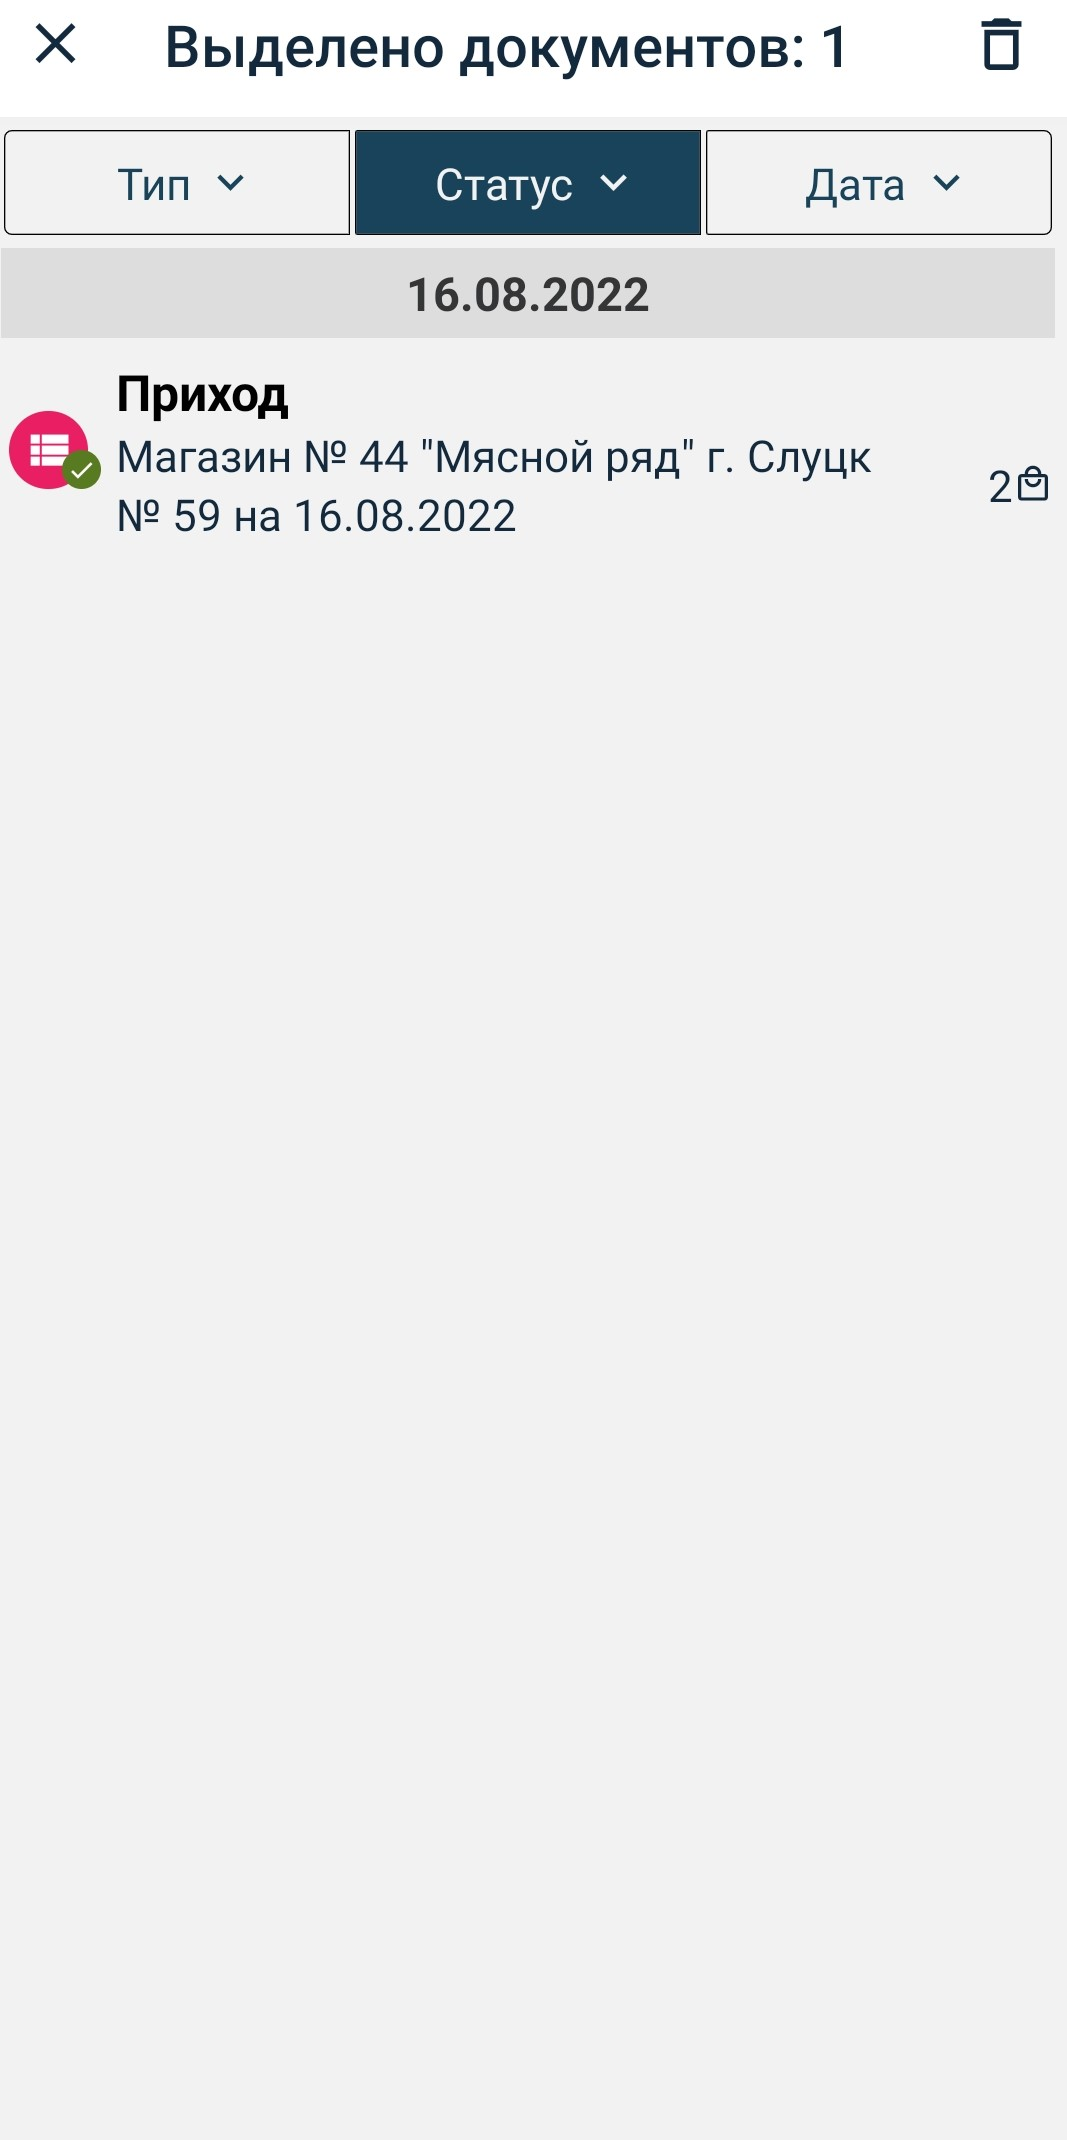
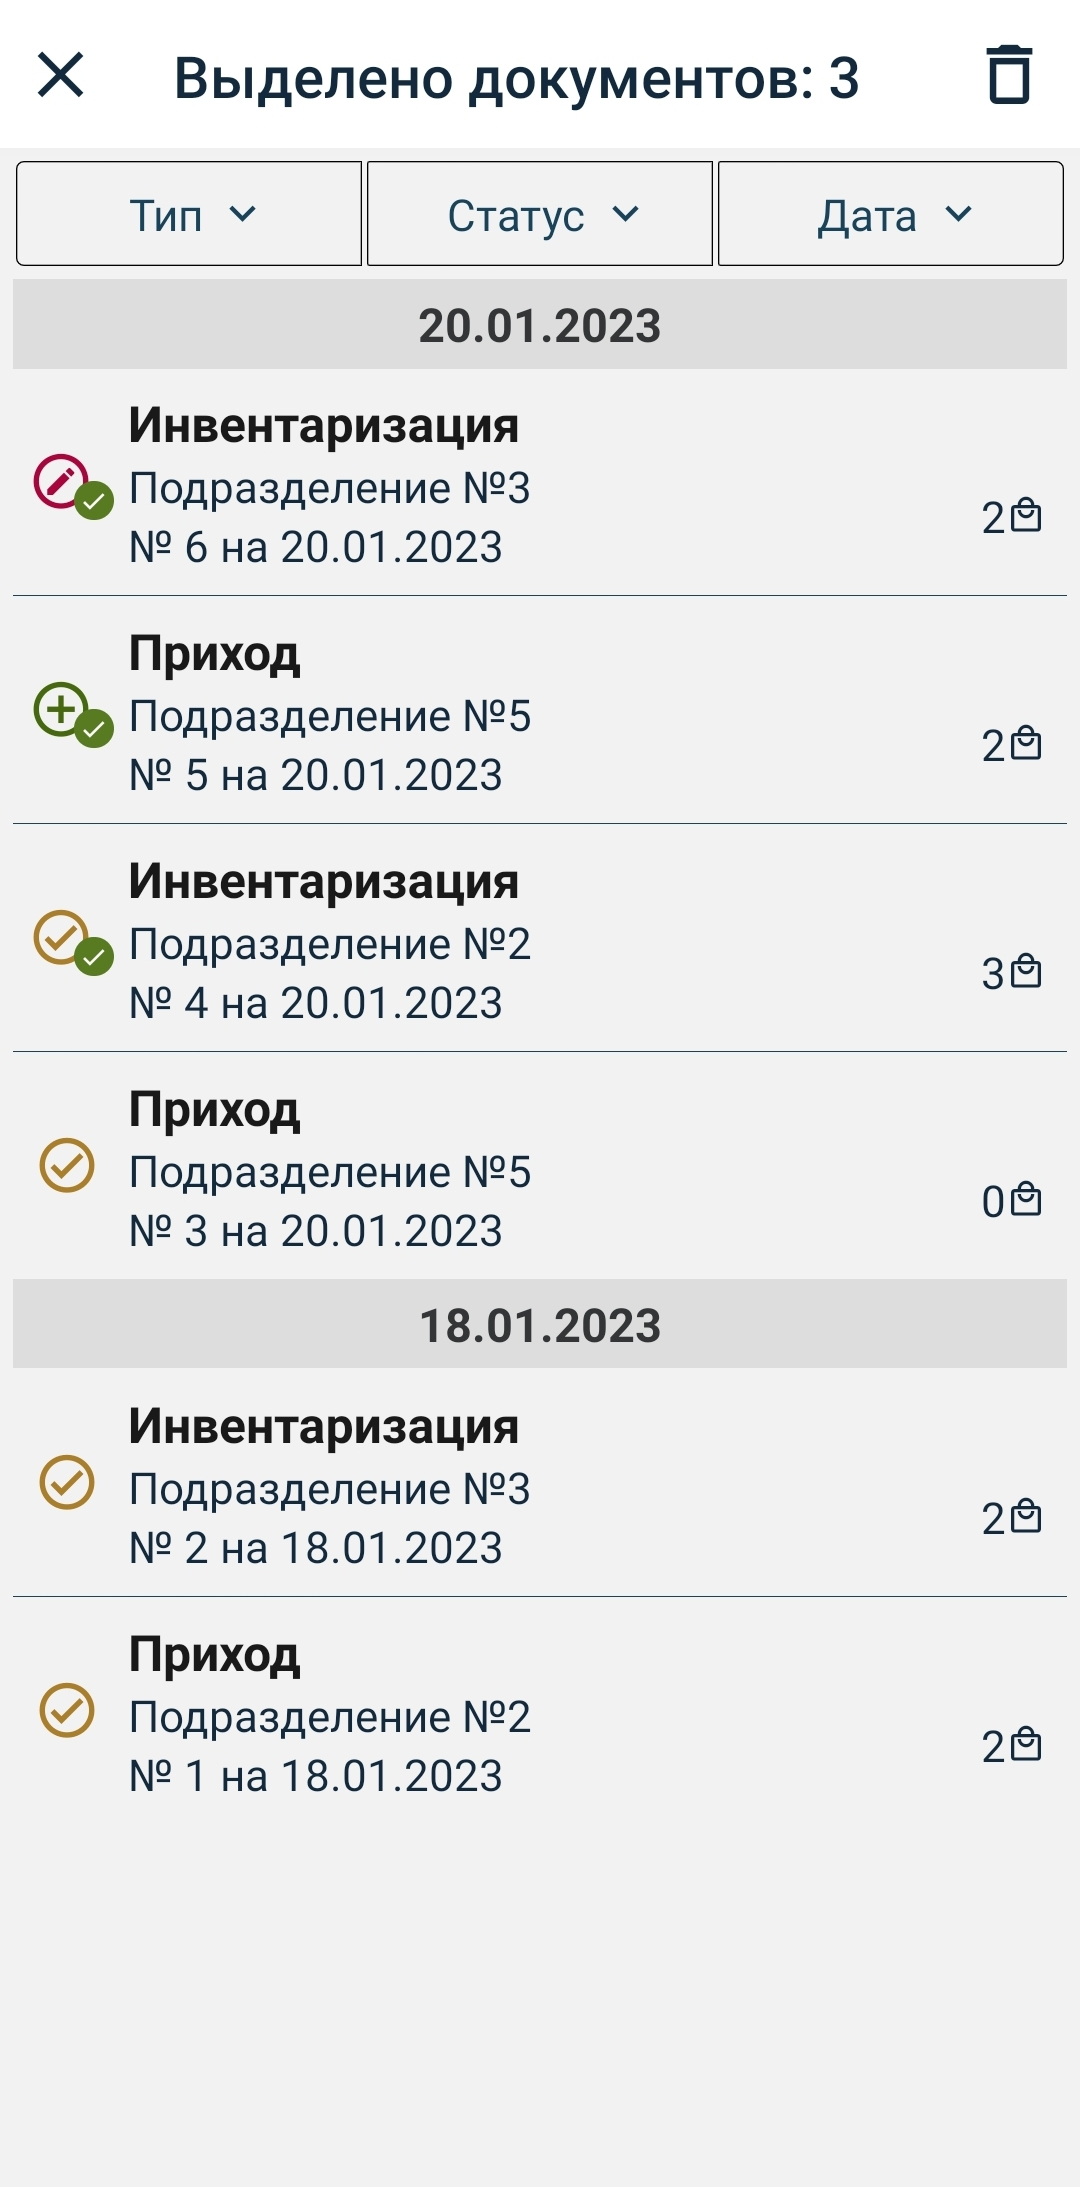
changes docs

diff --git a/docs/gdmn-gd-movement/docs/README.md b/docs/gdmn-gd-movement/docs/README.md
@@ -323,7 +323,7 @@
 
 Далее необходимо подождать 1-2 минуту и синхронизировать данные снова для получения ответа обработки, цвет станет синим. В случае, если документ обработан с ошибкой, статус меняется на **Черновик**.
 
-<img src="img/3.Docs/3.DocsProcessed.jpg" alt="drawing" height="400"/>
+<img src="img/3.Docs/3.DocsProcessed3.jpg" alt="drawing" height="400"/>
 
 ### Удаление документа
 
